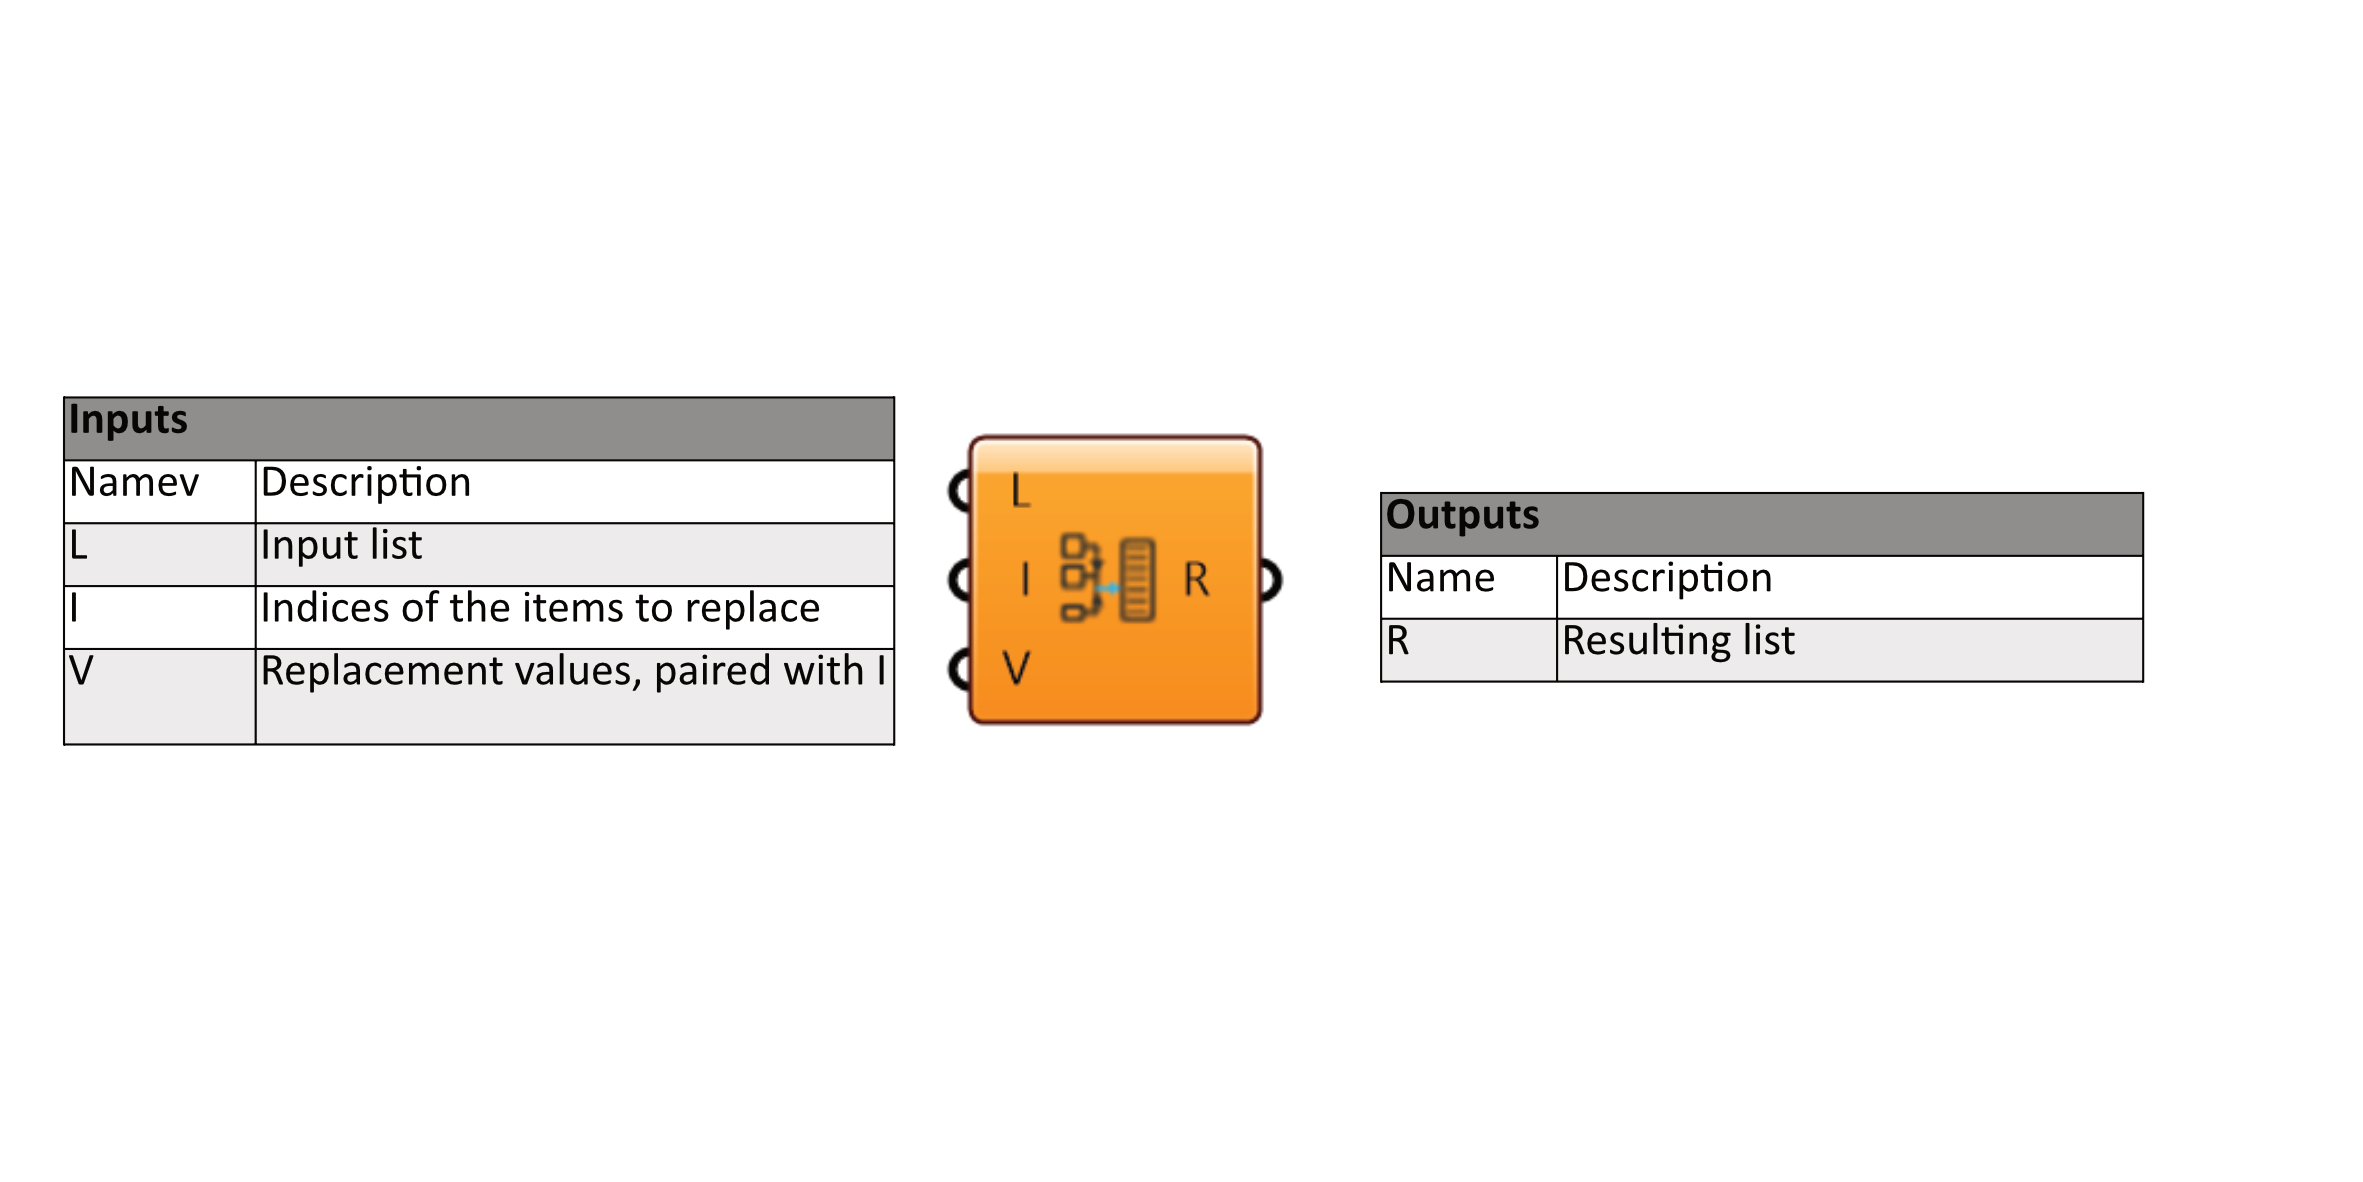
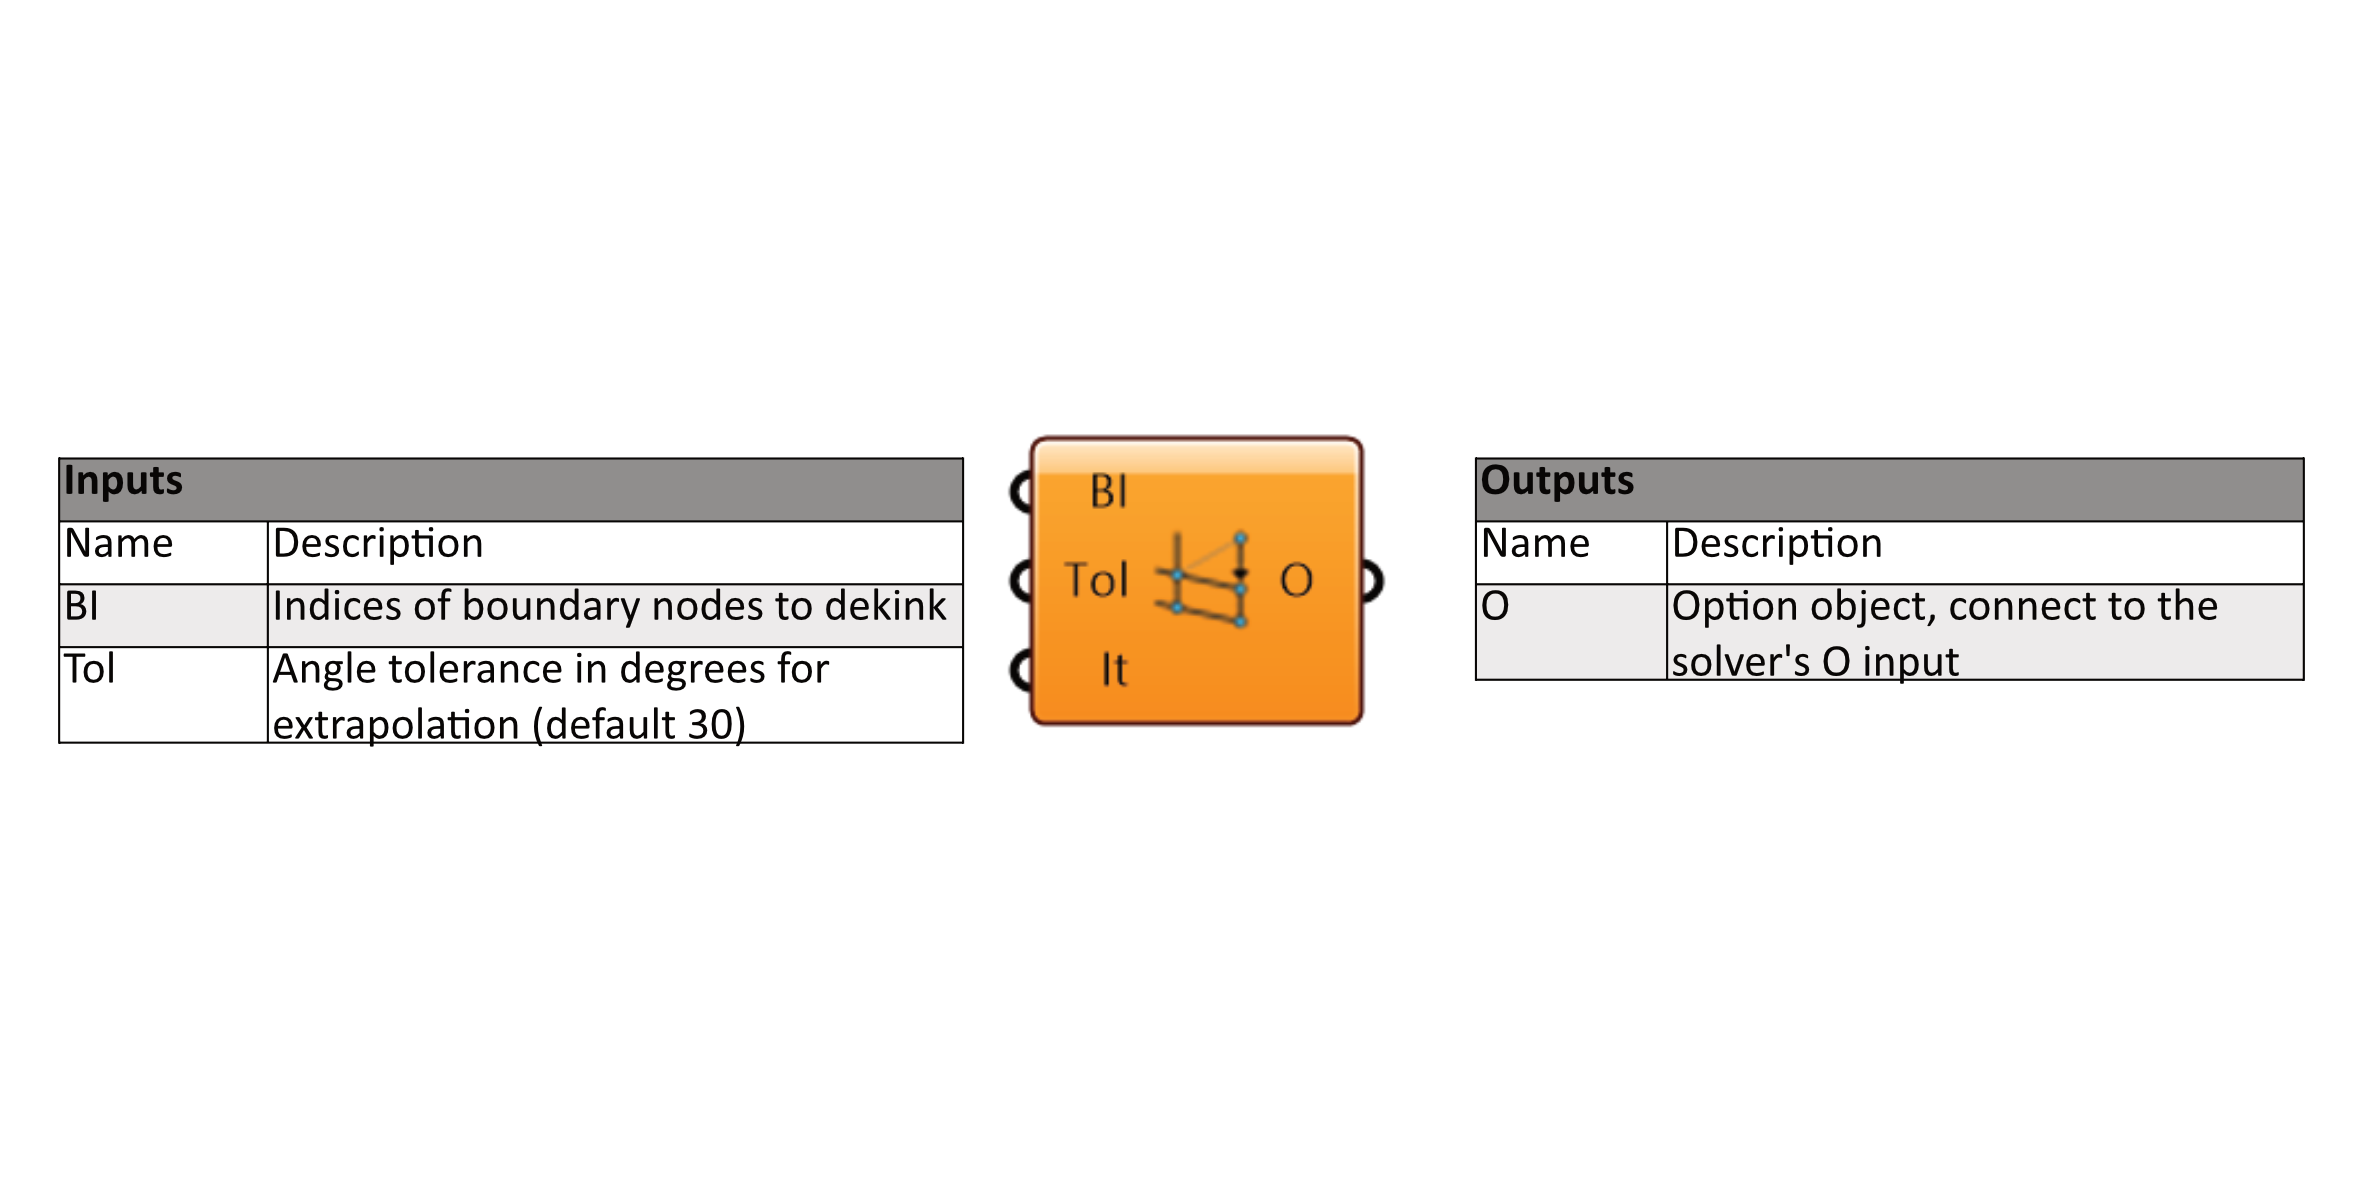
changed readme

Changed region(s): [[0.0, 0.335, 0.9886, 0.6396], [0.0, 0.5482, 0.0618, 0.5787]]

diff --git a/README.md b/README.md
@@ -125,9 +125,9 @@ Different force densities are assigned to groups of edges with Replace By Indice
 
 ### OP1 · Line Graph `LGraph`
 
-</td>
-<td valign="middle" align="center" width="170"><img src="docs/components/lgraph.png" width="500"></td>
-<td valign="top">
+<p align="center">
+<img src="docs/components/lgraph.png" width="500">
+</p>
 
 Builds a graph from a list of lines. Points within the tolerance are merged to the first point found; duplicate and degenerate edges are removed. The graph `G` is passed to the solver as a single object.
 
@@ -138,9 +138,9 @@ Builds a graph from a list of lines. Points within the tolerance are merged to t
 ### OP2 · Force Density Solver `FDSolver`
 
 
-</td>
-<td valign="middle" align="center" width="170"><img src="docs/components/solver.png" width="500"></td>
-<td valign="top">
+<p align="center">
+<img src="docs/components/solver.png" width="500">
+</p>
 
 
 Iterative Force Density solver (Gauss-Seidel relaxation) for equilibrium form-finding of cable nets and shells. Optional parameters are added via ZUI (see OP1). The message below the component shows the number of iterations (`it`), the largest nodal residual (`Res`) and the computation time (`t`). For the underlying method, see [Method](#method).
@@ -174,10 +174,9 @@ A plain list of integers can be connected directly. Vertex indices can be checke
 ### OP3 · Target Length `TargetL`
 
 
-</td>
-<td valign="middle" align="center" width="170"><img src="docs/components/targetlength.png" width="500"></td>
-<td valign="top">
-
+<p align="center">
+<img src="docs/components/targetlength.png" width="500">
+</p>
 
 Target-length constraint for selected edges (e.g. compression struts). The force density of a constrained edge is not held constant: in each correction step it is derived from local nodal equilibrium, so that the edge carries exactly the residual force along its axis.
 
@@ -187,9 +186,9 @@ A target length can only be reached if the system has enough free degrees of fre
 
 ### OP4 · De-Kink `DeKink`
 
-</td>
-<td valign="middle" align="center" width="170"><img src="docs/components/dekink.png" width="500"></td>
-<td valign="top">
+<p align="center">
+<img src="docs/components/dekink.png" width="500">
+</p>
 
 
 
@@ -199,9 +198,9 @@ Boundary dekinking. Removes kinks at selected boundary nodes by extrapolation al
 
 ### OP5 · Replace By Indices `ReplaceIndices`
 
-</td>
-<td valign="middle" align="center" width="170"><img src="docs/components/replace.png" width="500"></td>
-<td valign="top">
+<p align="center">
+<img src="docs/components/replace.png" width="500">
+</p>
 
 
 Replaces items of a list at given indices, e.g. to assign individual force densities to groups of edges without data tree handling (see Example 8).
